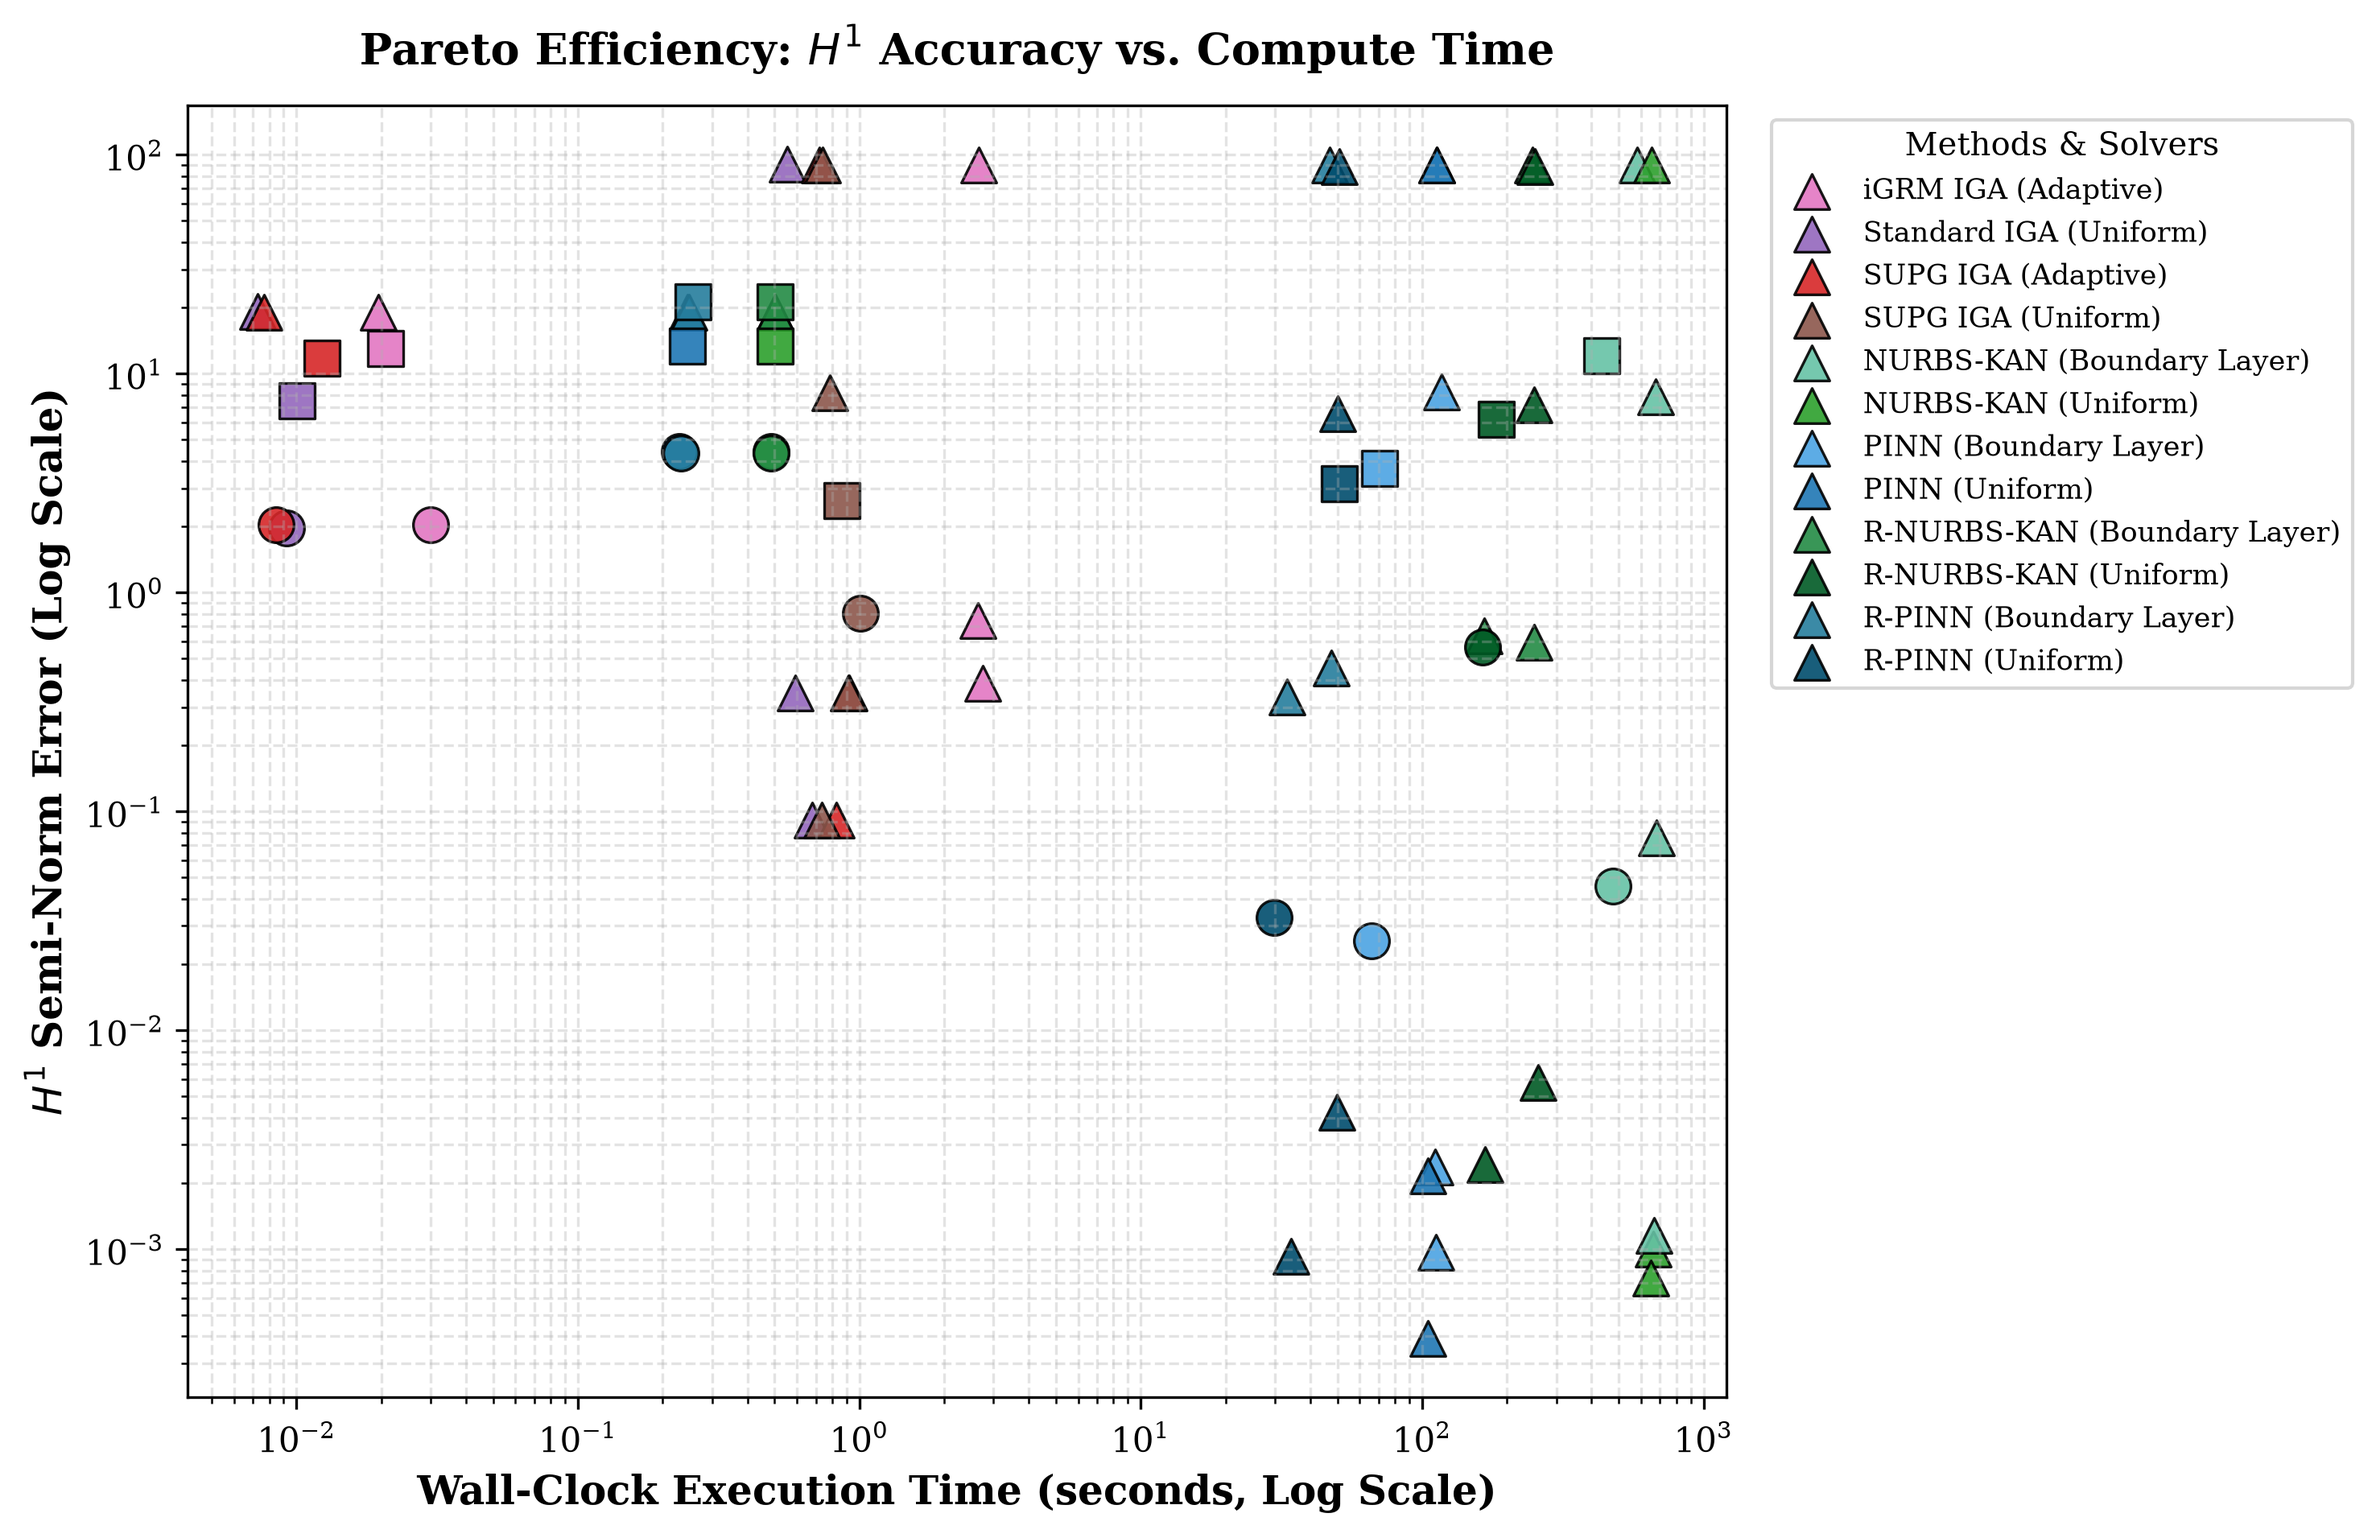
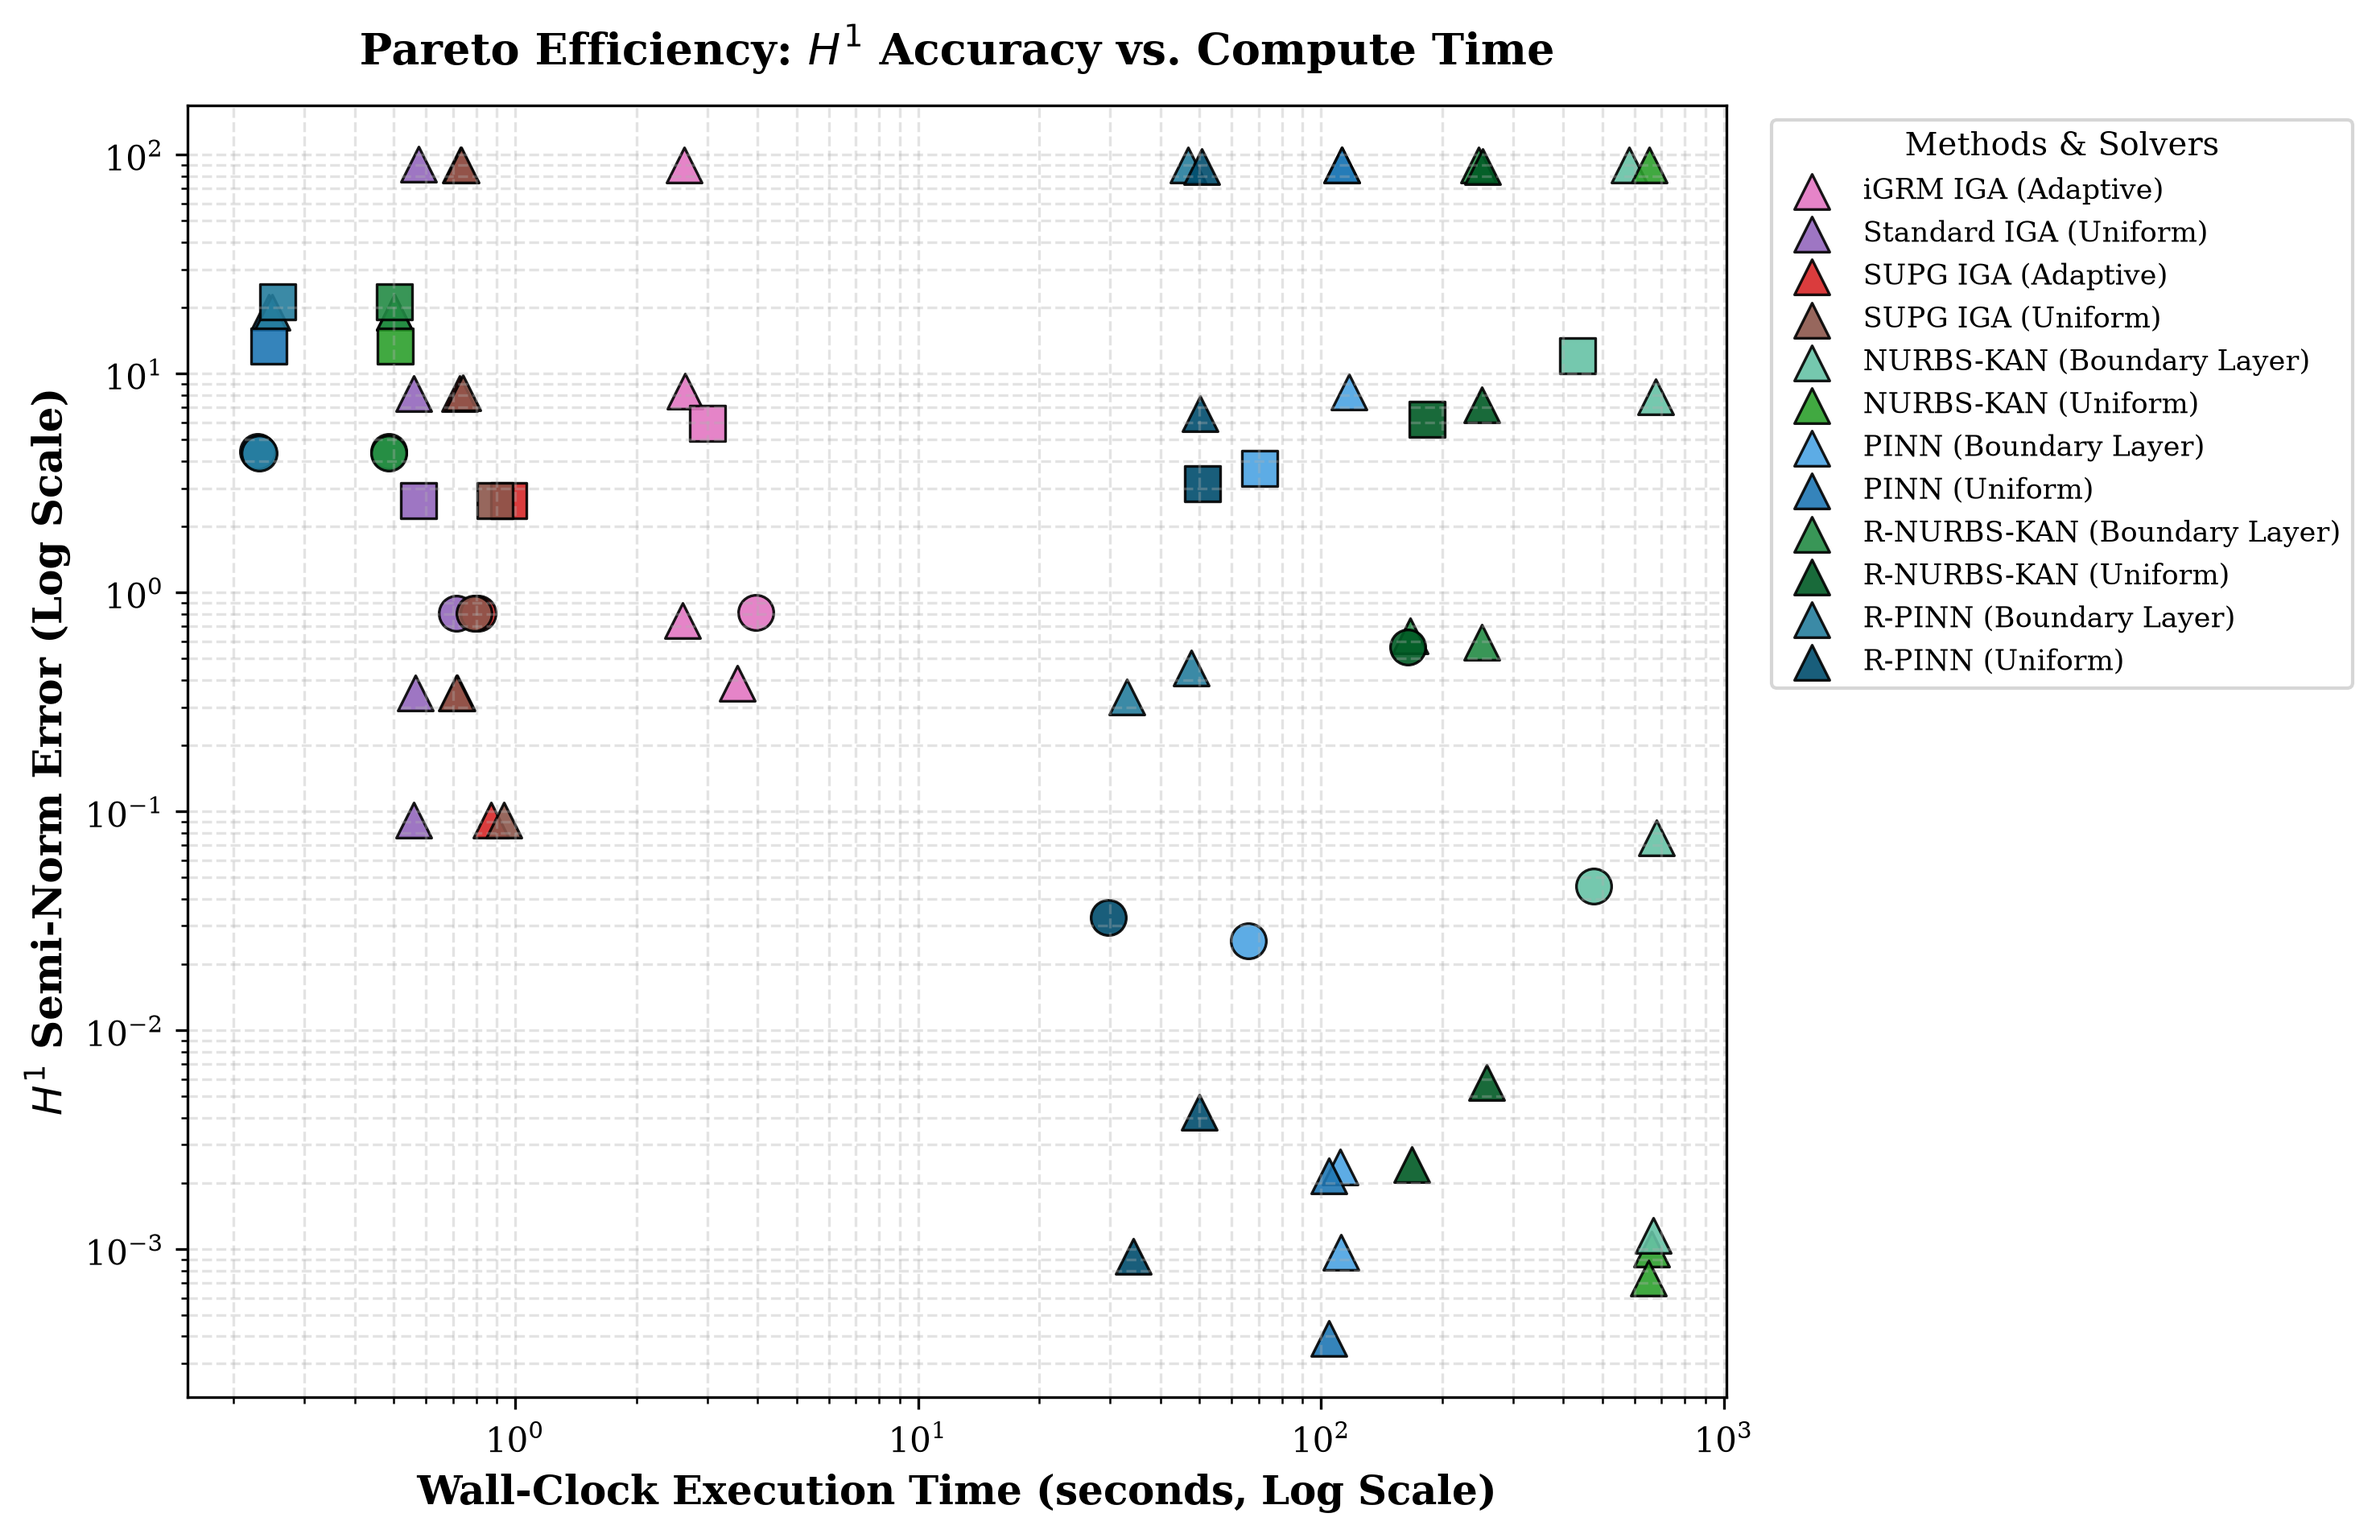
fixed math formulation for IGA solvers, updated sample graphics

diff --git a/src/solvers/iga/igrm.py b/src/solvers/iga/igrm.py
@@ -232,6 +232,8 @@ class ResidualMinimizationIGASolver(BaseIGASolver):
         )
 
         metrics = self.compute_error_norms(x_grid, t_grid, problem, z_pred, dzdx_approx, dzdt_approx)
+        shift_val = problem.shift_function(x_grid, t_grid).flatten()
+        total_z_pred = z_pred + shift_val
 
         return IGASolution(
             sol_coeffs=sol_coeffs,
@@ -239,8 +241,9 @@ class ResidualMinimizationIGASolver(BaseIGASolver):
             knots_t=knots_t_u,
             x_grid=x_grid,
             t_grid=t_grid,
-            z_pred=z_pred,
+            z_pred=total_z_pred,
             metrics=metrics,
             dzdx_approx=dzdx_approx,
             dzdt_approx=dzdt_approx
         )
+

diff --git a/src/solvers/iga/standard.py b/src/solvers/iga/standard.py
@@ -204,6 +204,8 @@ class StandardIGASolver(BaseIGASolver):
         )
 
         metrics = self.compute_error_norms(x_grid, t_grid, problem, z_pred, dzdx_approx, dzdt_approx)
+        shift_val = problem.shift_function(x_grid, t_grid).flatten()
+        total_z_pred = z_pred + shift_val
 
         return IGASolution(
             sol_coeffs=sol_coeffs,
@@ -211,8 +213,9 @@ class StandardIGASolver(BaseIGASolver):
             knots_t=knots_t,
             x_grid=x_grid,
             t_grid=t_grid,
-            z_pred=z_pred,
+            z_pred=total_z_pred,
             metrics=metrics,
             dzdx_approx=dzdx_approx,
             dzdt_approx=dzdt_approx
         )
+

diff --git a/src/solvers/iga/supg.py b/src/solvers/iga/supg.py
@@ -266,6 +266,8 @@ class SUPGIGASolver(BaseIGASolver):
         )
 
         metrics = self.compute_error_norms(x_grid, t_grid, problem, z_pred, dzdx_approx, dzdt_approx)
+        shift_val = problem.shift_function(x_grid, t_grid).flatten()
+        total_z_pred = z_pred + shift_val
 
         return IGASolution(
             sol_coeffs=sol_coeffs,
@@ -273,8 +275,9 @@ class SUPGIGASolver(BaseIGASolver):
             knots_t=knots_t,
             x_grid=x_grid,
             t_grid=t_grid,
-            z_pred=z_pred,
+            z_pred=total_z_pred,
             metrics=metrics,
             dzdx_approx=dzdx_approx,
             dzdt_approx=dzdt_approx
         )
+
